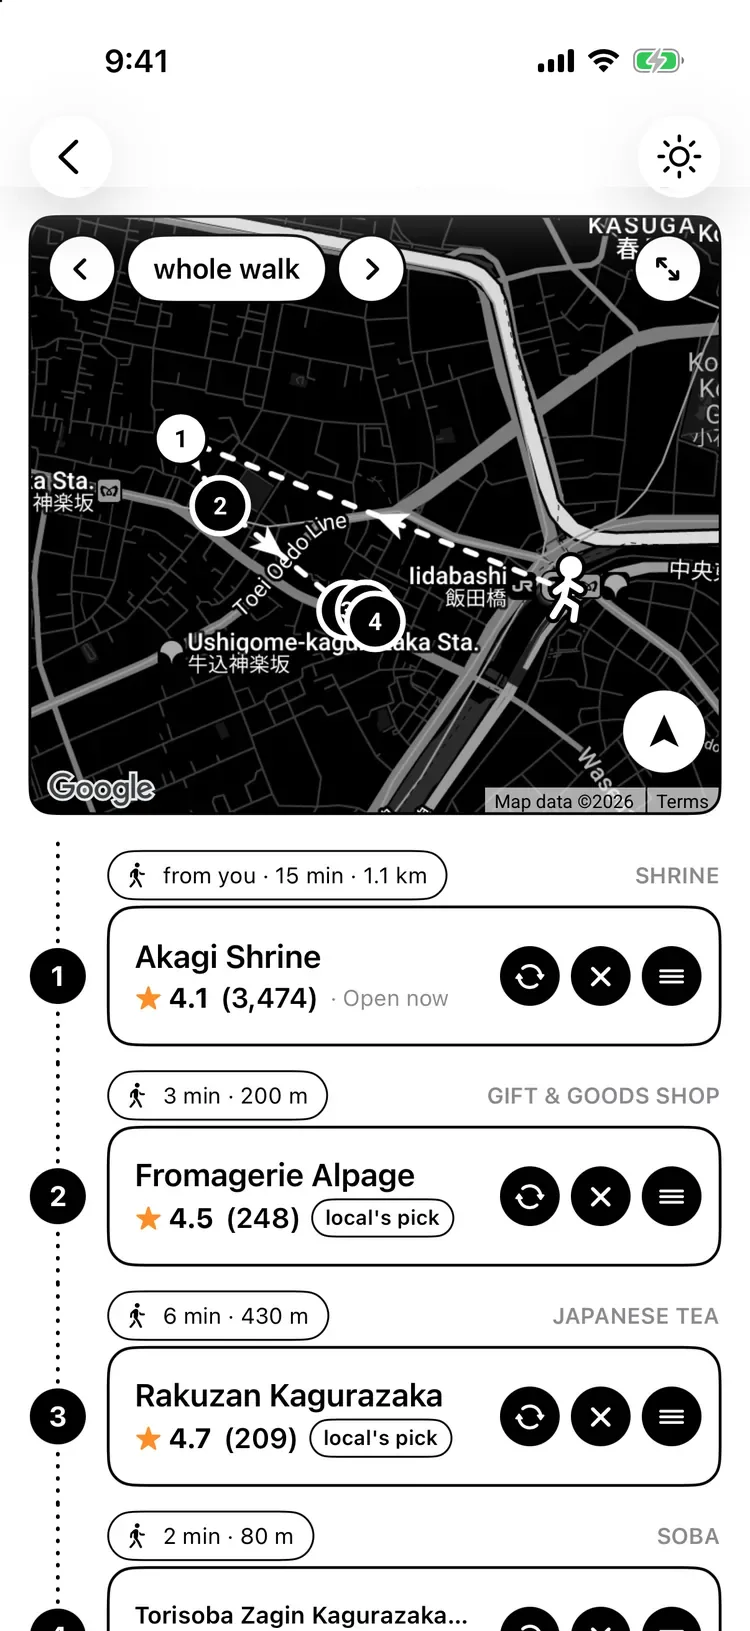
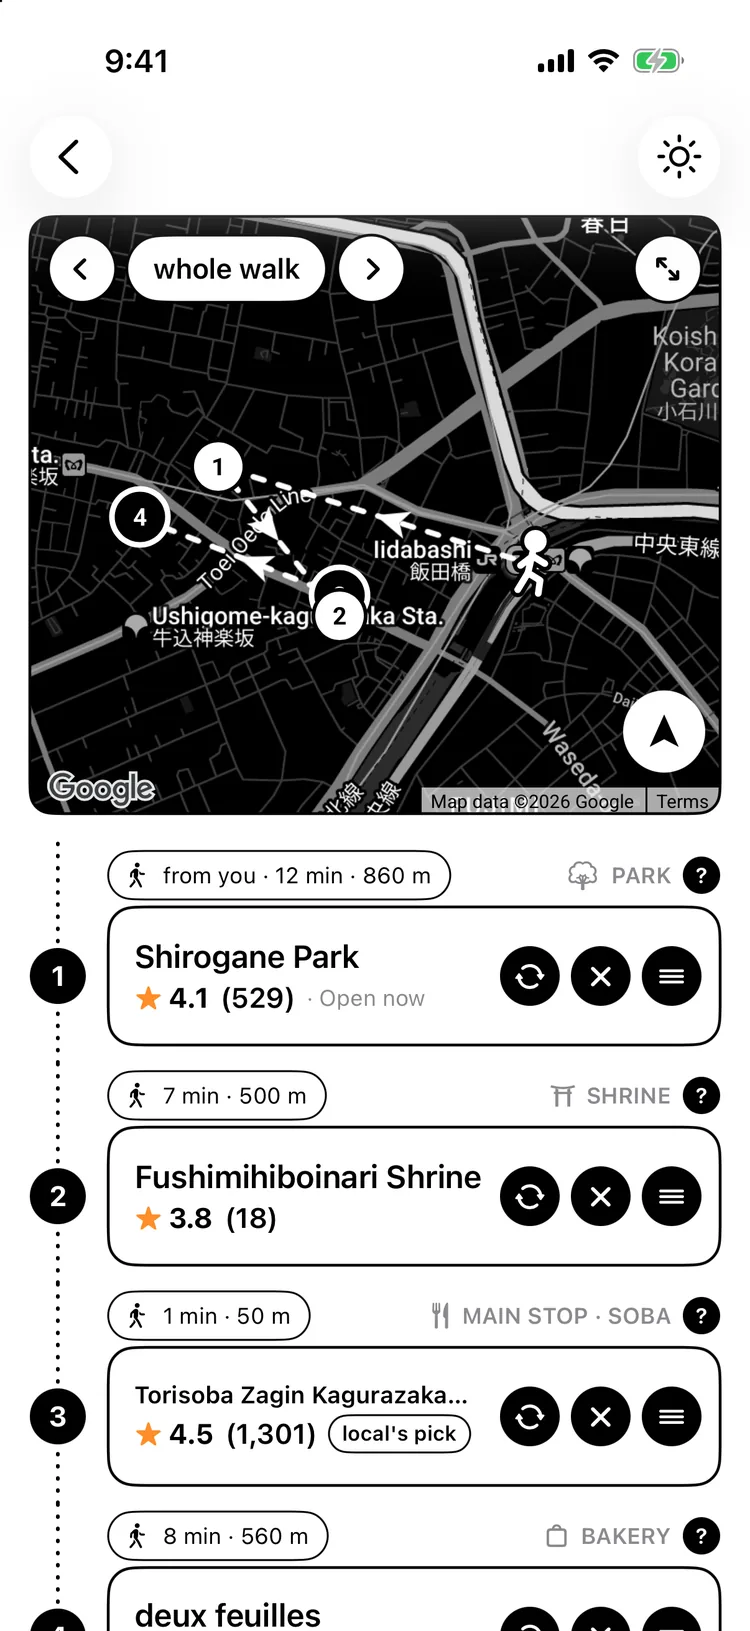
Demo: step-through screens and lunch-selected panel from the same lunch walk (pass 3)
Claude-Session: https://claude.ai/code/session_01FxSsQnwZVufiE1aJZBi47o

diff --git a/demo.js b/demo.js
@@ -59,9 +59,12 @@
     ] },
     w2: { alt: 'Customize: how many are walking, hungry, and what you like', hot: [
       h('Back', BACK, 'home'),
-      h('Lunch', [614, 1200, 503, 115], 'w3', true)
+      h('Lunch', [614, 1200, 503, 115], 'w2b', true)
     ] },
-    w3: { alt: 'Customize, scrolled: what to leave out, and update my walk', hot: [
+    w2b: { alt: 'Customize with lunch selected', down: 'w3', downHint: true, hot: [
+      h('Back', BACK, 'home')
+    ] },
+    w3: { alt: 'Customize, scrolled: what to leave out, and update my walk', up: 'w2b', hot: [
       h('Back', BACK, 'home'),
       h('Update my walk', [49, 1985, 1105, 150], 'w4', true)
     ] },
